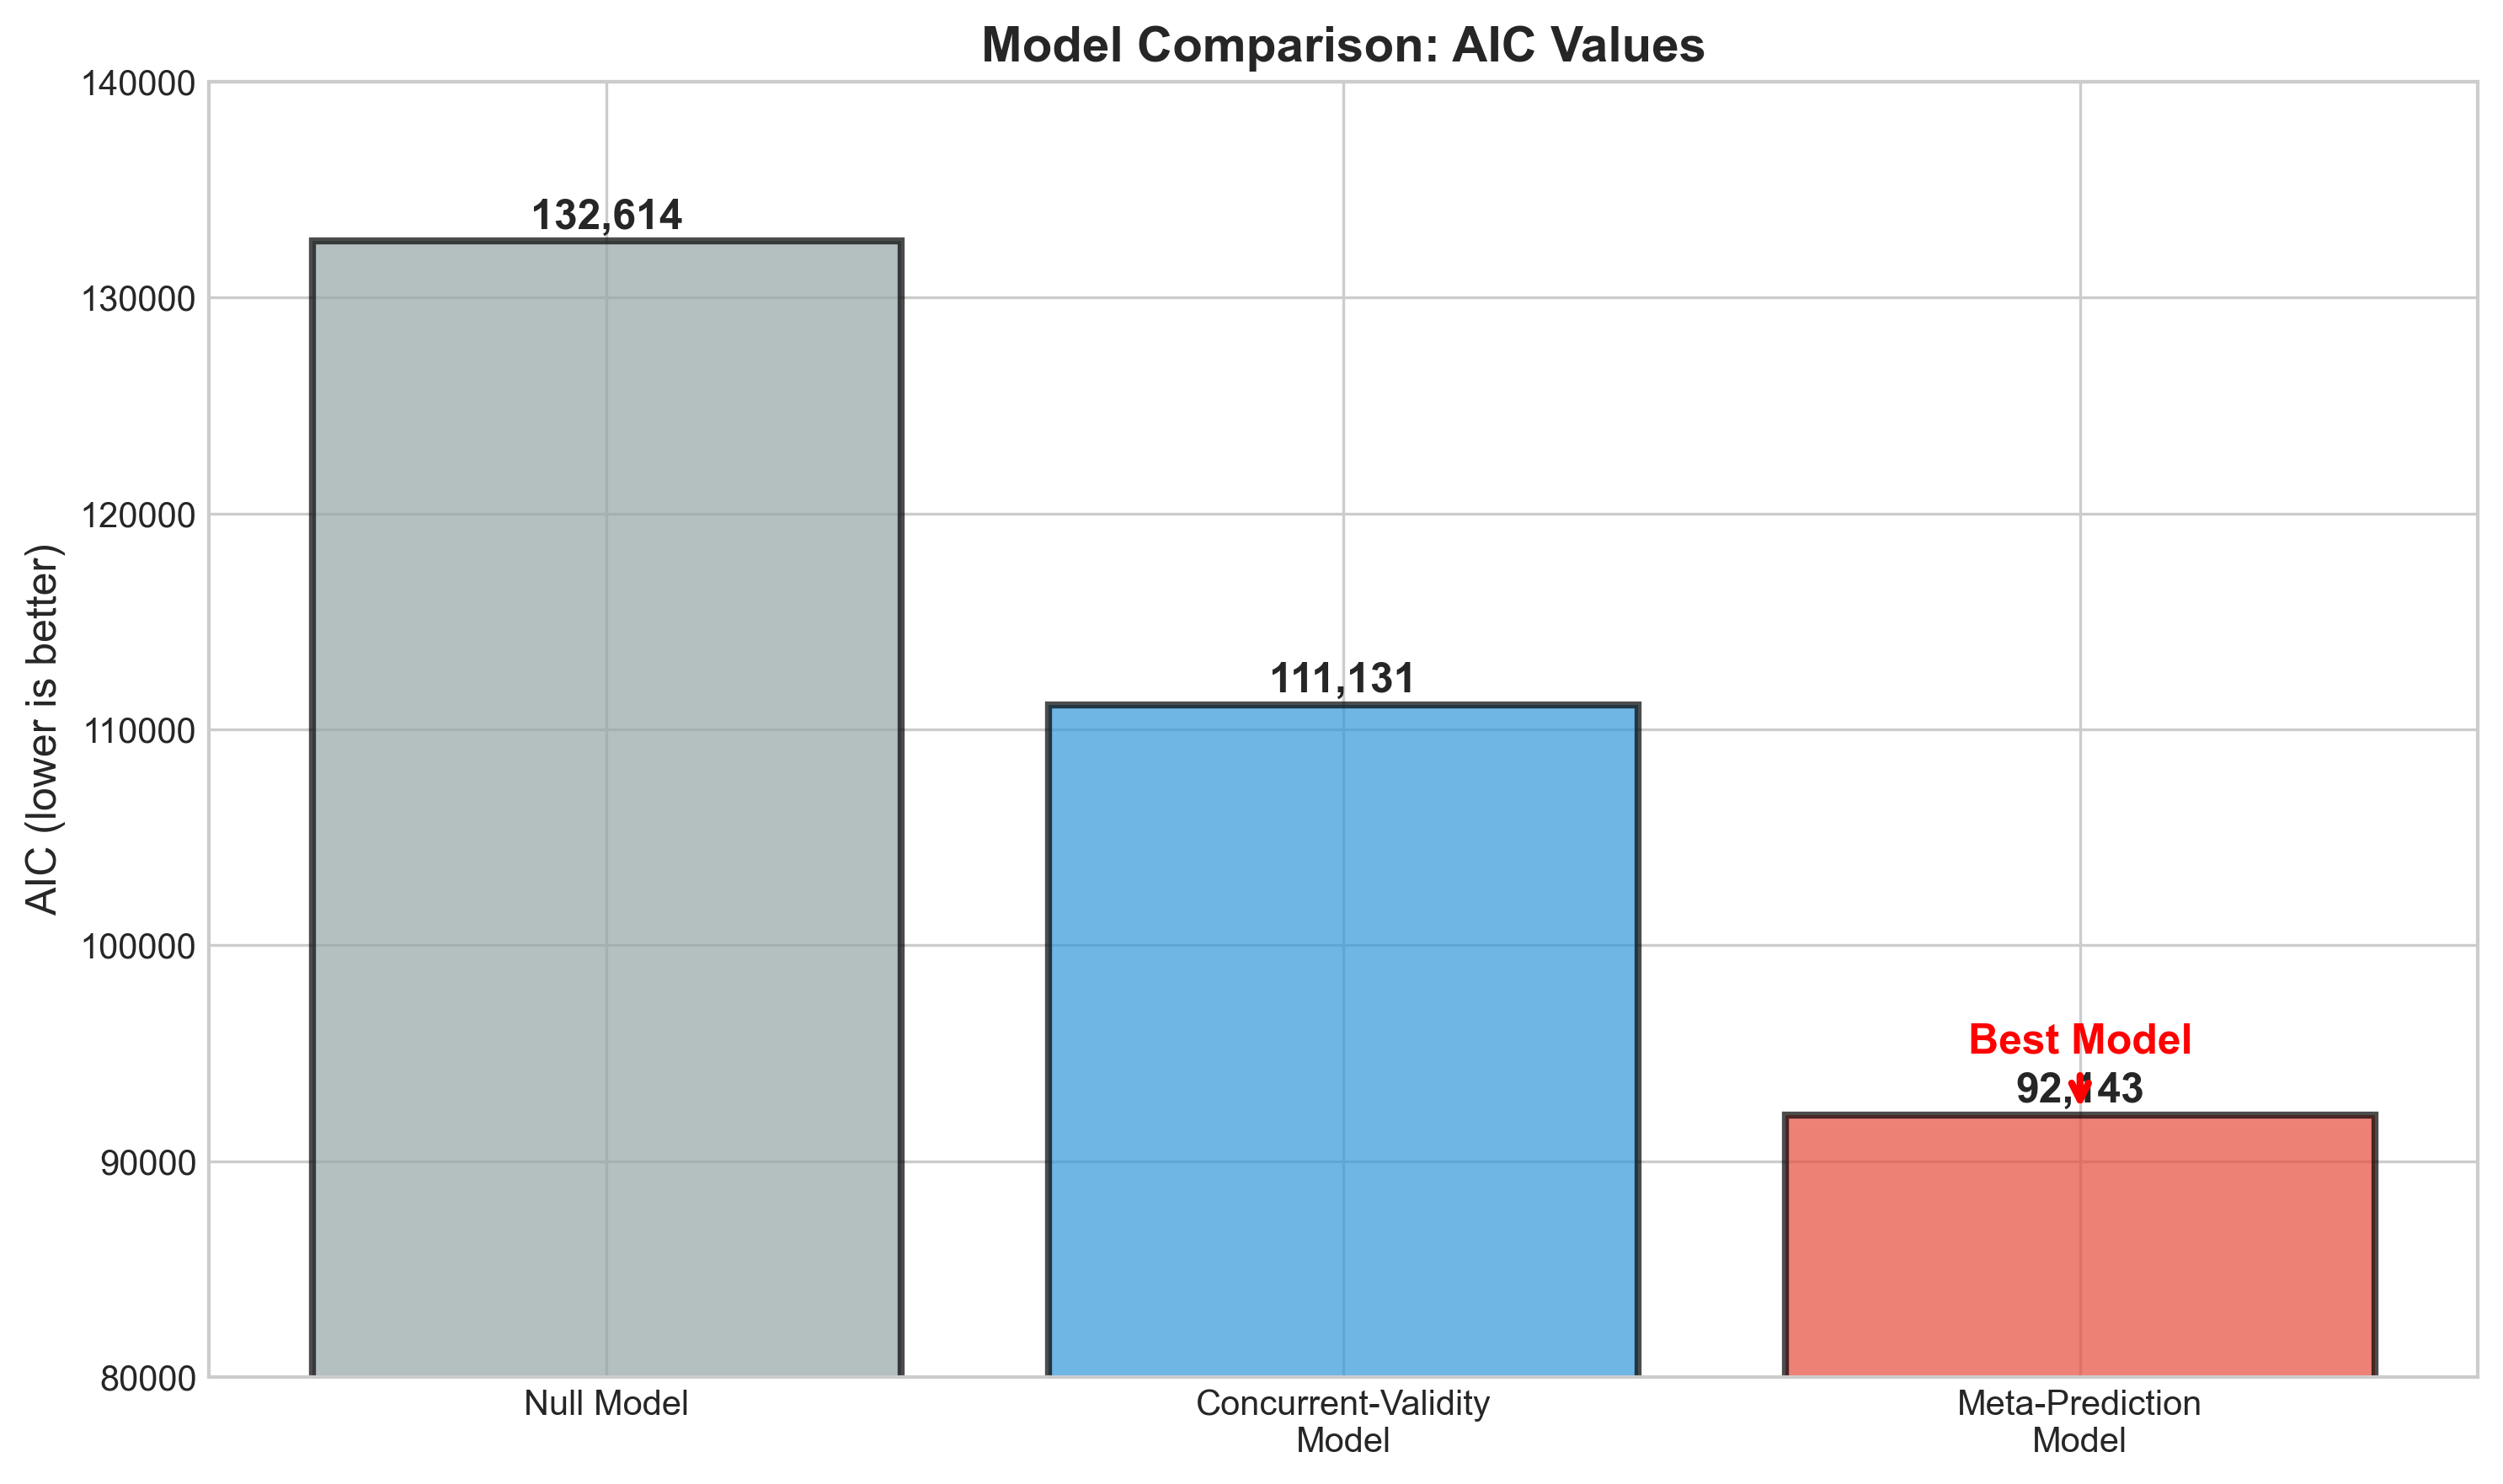
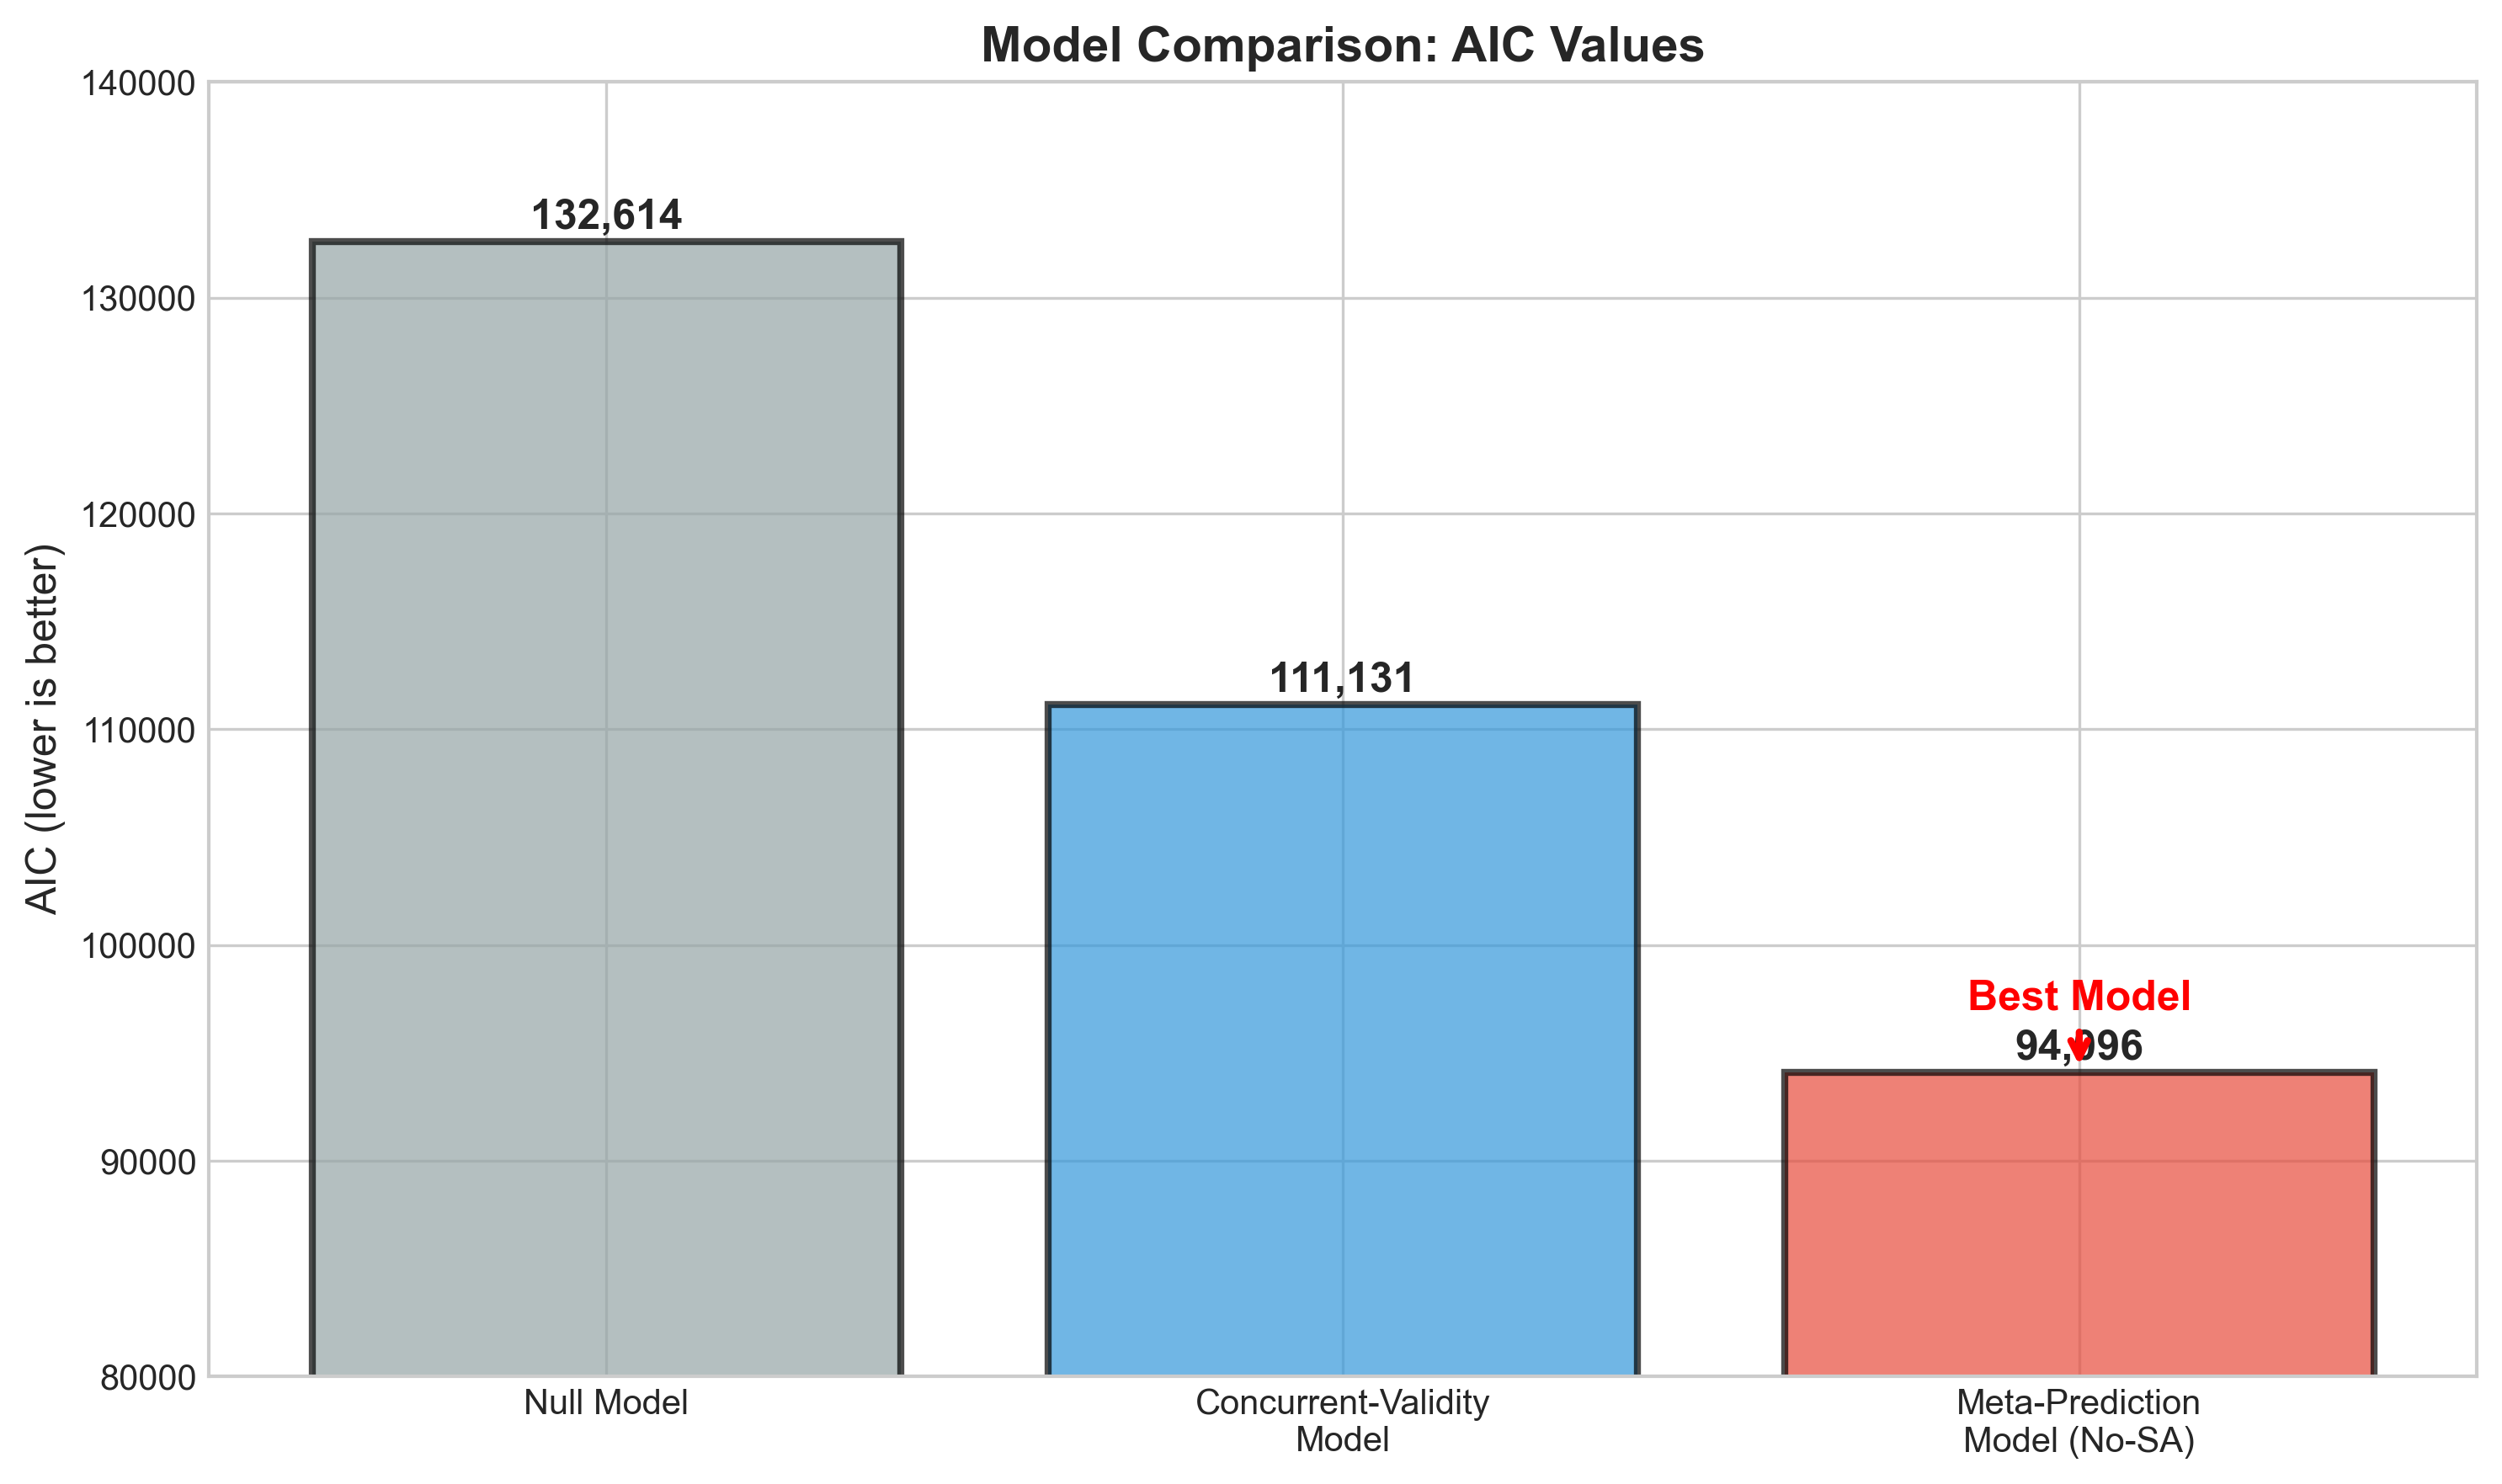
V7 Major Revision: Restructure paper around No-SA primary model
- Promote No-SA model (AIC=94,096) as primary analysis
- Delete parameter calibration section (Table 6, logistic transform)
- Remove redundant Table 9 (duplicate of new Table 4)
- Update all AIC/β/residualization values (43.2%, β=7.31)
- Rewrite abstract: proof of concept, exploratory framing
- Rewrite conclusion: no bias correction claims
- Downgrade theoretical formalization (DDM/Bayesian → future work)
- Add VIF diagnostics and Cohen's f² to Table 4
- Add Meade & Craig (2012) and Huang et al. (2012) citations
- Add DEL-satisficing discussion connecting to Krosnick theory
- Reframe SA as supplementary analysis, not primary
- Downgrade practical implications (no bias correction language)
- Regenerate figures with corrected AIC values
- Clean compilation: 12 pages, 0 citation warnings

Changed region(s): [[0.712, 0.6555, 0.9596, 0.7804], [0.7739, 0.9364, 0.8668, 0.9989], [0.5262, 0.9364, 0.5572, 0.9677]]

diff --git a/paper/meta_prediction_theory_complete.tex b/paper/meta_prediction_theory_complete.tex
@@ -42,10 +42,10 @@
 \maketitle
 
 \begin{abstract}
-\noindent Self-report measures, despite their ubiquity in psychological research and clinical assessment, suffer from a fundamental vulnerability: respondents can deliberately manipulate their responses to produce desired outcomes. We introduce the Meta-Prediction Theory, a novel theoretical framework that reconceptualizes self-report bias as a recursive meta-cognitive process. Rather than passively distorting responses based on social desirability, respondents actively predict what scales measure, anticipate how their responses will be interpreted, and strategically adjust their answers accordingly---a process that operates across multiple levels of prediction. We extend the traditional Three-Layer Meta-Cognitive Model by incorporating scale cognition and meta-prediction as additional components, deriving 15 testable propositions concerning the nature, determinants, and consequences of meta-prediction bias. We formalize the recursive meta-prediction process using Bayesian updating and connect it to evidence accumulation frameworks in computational cognitive science. An exploratory empirical analysis using a large-scale dataset ($N = 24{,}292$) provides preliminary support for our theoretical predictions: response time patterns are correlated with scale scores ($r = -.132$), cross-scale consistency is the strongest predictor ($r = -.498$), and response time variables account for a meaningful portion of shared variance between depression and anxiety measures. The full hierarchical regression model demonstrates superior fit to the data compared to alternative models (AIC $= 92{,}143$ vs.\ $111{,}131$ and $132{,}614$; $\Delta R^2 = .224$ over the concurrent-validity baseline). However, these findings must be interpreted with caution: the proxy variables are imperfect measures of meta-cognitive processes, the Scale Awareness variable is partially circular, and the observed patterns may reflect clinical comorbidity, floor effects, or fatigue rather than meta-prediction. A robustness analysis excluding Scale Awareness shows that the remaining proxy variables still account for substantial variance ($\Delta R^2 = .208$; AIC $= 94{,}096$), indicating that the core finding does not depend on the circular SA variable. This work represents an exploratory first step toward a process-oriented understanding of self-report bias. This analysis is exploratory and all findings require replication with external validation criteria.
+\noindent Self-report measures, despite their ubiquity in psychological research and clinical assessment, suffer from a fundamental vulnerability: respondents can deliberately manipulate their responses to produce desired outcomes. We introduce the Meta-Prediction Theory, a novel theoretical framework that reconceptualizes self-report bias as a recursive meta-cognitive process. Rather than passively distorting responses based on social desirability, respondents actively predict what scales measure, anticipate how their responses will be interpreted, and strategically adjust their answers accordingly---a process that operates across multiple levels of prediction. We extend the traditional Three-Layer Meta-Cognitive Model by incorporating scale cognition and meta-prediction as additional components, deriving 15 testable propositions concerning the nature, determinants, and consequences of meta-prediction bias. An exploratory empirical analysis using a large-scale dataset ($N = 24{,}292$) provides preliminary support for our theoretical predictions: response time patterns are correlated with scale scores ($r = -.132$), the Deliberation proxy (inverse extreme responding) is the strongest meta-cognitive predictor (sr$^2 = .164$), and response time variables account for a meaningful portion of shared variance between depression and anxiety measures. The No-SA hierarchical regression model demonstrates superior fit to the data compared to alternative models (AIC $= 94{,}096$ vs.\ $111{,}131$ and $132{,}614$; $\Delta R^2 = .208$ over the concurrent-validity baseline). However, these findings must be interpreted with caution: the proxy variables are imperfect measures of meta-cognitive processes, and the observed patterns may reflect clinical comorbidity, floor effects, or fatigue rather than meta-prediction. This work represents a proof of concept for response time-based detection of meta-cognitive processes in self-report assessment. All findings are exploratory and require replication with external validation.
 
 \medskip
-\noindent\textbf{Keywords:} meta-prediction; social desirability bias; self-report bias; meta-cognition; psychological assessment; response time analysis; measurement correction
+\noindent\textbf{Keywords:} meta-prediction; social desirability bias; self-report bias; meta-cognition; psychological assessment; meta-cognitive processes; response time analysis
 \end{abstract}
 
 % =============================================================================
@@ -82,7 +82,7 @@ This paper introduces the \textit{Meta-Prediction Theory}, a novel theoretical f
 
 \subsection{Social Desirability Bias: A Historical Overview}
 
-Research on social desirability bias has a long history in psychology. Edwards \citep{Edwards1953} first introduced the concept of social desirability in personality assessment. Crowne and Marlowe \citep{CrowneMarlowe1960} developed the Marlowe-Crowne Social Desirability Scale (MC-SDS), which has become the most widely used measure of social desirability bias. Subsequent work has identified distinct response styles, including acquiescence, extremity, and midpoint responding \citep{Baumgartner2001, Weijters2010}, as well as the role of test-taking motivation in shaping response quality \citep{Krosnick1991, Wise2006}.
+Research on social desirability bias has a long history in psychology. Edwards \citep{Edwards1953} first introduced the concept of social desirability in personality assessment. Crowne and Marlowe \citep{CrowneMarlowe1960} developed the Marlowe-Crowne Social Desirability Scale (MC-SDS), which has become the most widely used measure of social desirability bias. Subsequent work has identified distinct response styles, including acquiescence, extremity, and midpoint responding \citep{Baumgartner2001, Weijters2010}, as well as the role of test-taking motivation in shaping response quality \citep{Krosnick1991, Wise2006}. Careless and insufficient effortful responding has been identified as a major threat to data quality, with extreme responding and rapid completion serving as key indicators \citep{Meade2012}. Cross-cultural research has examined how social desirability and response styles manifest in non-Western populations \citep{Huang2012}, which is particularly relevant given that the present study uses a Chinese sample.
 
 Paulhus \citep{Paulhus1984} advanced the field by proposing the Two-Component Model, which distinguishes between two forms of socially desirable responding:
 
@@ -341,7 +341,7 @@ Since direct measures of meta-cognitive processes were not available in the data
     \item \textbf{Scale Awareness (SA)}: Consistency between PHQ-9 and GAD-7 scores, computed as $1 - |z_{PHQ9} - z_{GAD7}|$. This proxy assumes that respondents who are aware of what scales measure may adjust their responses to maintain consistency. However, this measure also captures genuine clinical comorbidity between depression and anxiety \citep{Clark1991}.
     \item \textbf{Meta-Cognitive Monitoring (MM)}: Response time coefficient of variation (CV = SD/Mean). Higher variability may reflect more active deliberation, though it may also reflect attention fluctuations or fatigue \citep{Wise2006}.
     \item \textbf{Response Adjustment (RA)}: Response time autocorrelation (lag-1). Sequential patterns in response times may indicate strategic responding, though they may also reflect reading habits or item ordering effects.
-    \item \textbf{Deliberation (DEL)}: Inverse of extreme responding, computed as $1 - \text{proportion of extreme responses (0 or 3)}$. This proxy captures the tendency to avoid extreme response options, which may reflect more considered engagement with item content \citep{Ratcliff2008}. Note that higher DEL values indicate \textit{less} extreme responding.
+    \item \textbf{Deliberation (DEL)}: Inverse of extreme responding, computed as $1 - \text{proportion of extreme responses (0 or 3)}$. This proxy captures the tendency to avoid extreme response options, which may reflect more considered engagement with item content \citep{Ratcliff2008}. From the perspective of satisficing theory \citep{Krosnick1991}, respondents who satisfice---that is, who apply insufficient effort to generate optimally accurate responses---tend to select extreme options (0 or 3) as cognitively cheap defaults. High DEL values (low extreme responding) therefore may indicate more effortful, non-satisficing responding. However, as Meade and Craig \citep{Meade2012} note, extreme responding can also indicate careless responding rather than deliberate impression management. Note that higher DEL values indicate \textit{less} extreme responding.
     \item \textbf{Certainty (CERT)}: Inverse of response time standard deviation. Lower variability may indicate more confident responding.
     \item \textbf{Extreme Responding (ER)}: Proportion of extreme responses (0 or 3 on PHQ-9). This captures response style tendencies \citep{Baumgartner2001}.
 \end{enumerate}
@@ -410,24 +410,23 @@ Table~\ref{tab:regression} presents the regression coefficients.
 
 \begin{table}[t]
 \centering
-\caption{Regression Coefficients for Meta-Prediction Model}
+\caption{No-SA Model: Regression Coefficients (Primary Analysis)}
 \label{tab:regression}
 \footnotesize
 \begin{tabular}{@{}lcccc@{}}
 \toprule
 \textbf{Variable} & \textbf{$\beta$} & \textbf{SE} & \textbf{95\% CI} & \textbf{sr$^2$} \\
 \midrule
-GAD-7 & $0.461^{***}$ & 0.005 & $[0.452, 0.470]$ & .076 \\
-SA & $-1.054^{***}$ & 0.023 & $[-1.099, -1.008]$ & .016 \\
-MM & $-0.115^{***}$ & 0.029 & $[-0.172, -0.058]$ & $<.001$ \\
-RA & $0.006^{***}$ & 0.001 & $[0.003, 0.008]$ & $<.001$ \\
-DEL & $6.820^{***}$ & 0.047 & $[6.728, 6.912]$ & .164 \\
+GAD-7 & $0.494^{***}$ & 0.005 & $[0.485, 0.503]$ & .076 \\
+MM & $-0.133^{***}$ & 0.030 & $[-0.193, -0.073]$ & $<.001$ \\
+RA & $0.007^{***}$ & 0.001 & $[0.004, 0.009]$ & $<.001$ \\
+DEL & $7.313^{***}$ & 0.048 & $[7.220, 7.407]$ & .164 \\
 \midrule
-$R^2$ & 0.811 & & & \\
+$R^2$ & 0.795 & & & \\
 \bottomrule
 \end{tabular}
 \smallskip
-\footnotesize \textit{Note.} $^{***}p<.001$. sr$^2$ = semi-partial squared (unique variance explained). RA and MM each contribute $<.1\%$ unique variance, indicating that their statistical significance is driven by the large sample size ($N = 24{,}292$) rather than substantive effects.
+\footnotesize \textit{Note.} $^{***}p<.001$. sr$^2$ = semi-partial squared (unique variance explained). Model: PHQ-9 $\sim$ GAD-7 + MM + RA + DEL ($N = 24{,}292$). RA and MM each contribute $<.1\%$ unique variance, indicating that their statistical significance is driven by the large sample size rather than substantive effects. VIF values: GAD-7 = 2.41, MM = 1.88, RA = 1.46, DEL = 2.92 (all $< 5$, indicating acceptable multicollinearity).
 \end{table}
 
 \subsection{Cross-Scale Consistency Results}
@@ -441,15 +440,15 @@ $R^2$ & 0.811 & & & \\
 \textbf{Metric} & \textbf{Value} \\
 \midrule
 Raw PHQ-9 / GAD-7 correlation & 0.766 \\
-Residualized PHQ-9 / GAD-7 correlation & 0.404 \\
-Reduction in correlation & 47.3\% \\
-PHQ-9 Raw / Residualized correlation & 0.952 \\
-GAD-7 Raw / Residualized correlation & 0.936 \\
+Residualized PHQ-9 / GAD-7 correlation & 0.436 \\
+Reduction in correlation & 43.2\% \\
+PHQ-9 Raw / Residualized correlation & 0.961 \\
+GAD-7 Raw / Residualized correlation & 0.945 \\
 \bottomrule
 \end{tabular}
 \end{table}
 
-The adjustment reduced the correlation between PHQ-9 and GAD-7 from 0.766 to 0.404, representing a 47.3\% reduction. \textbf{However, this finding must be interpreted with extreme caution.} The high baseline correlation between PHQ-9 and GAD-7 ($r = .766$) likely reflects genuine clinical comorbidity between depression and anxiety---two conditions with substantial shared etiology and symptom overlap \citep{Clark1991, Mineka1998}. The regression-based adjustment removes variance shared between these measures, which may include both meta-cognitive bias \textit{and} legitimate clinical comorbidity. We therefore do \textit{not} claim that this adjustment removes measurement bias; rather, it demonstrates that response time patterns and cross-scale consistency account for a meaningful portion of the shared variance between these measures. Future research using external validity criteria (e.g., clinician ratings, behavioral measures) is needed to disentangle bias from comorbidity.
+The adjustment reduced the correlation between PHQ-9 and GAD-7 from 0.766 to 0.436, representing a 43.2\% reduction. \textbf{However, this finding must be interpreted with extreme caution.} The high baseline correlation between PHQ-9 and GAD-7 ($r = .766$) likely reflects genuine clinical comorbidity between depression and anxiety---two conditions with substantial shared etiology and symptom overlap \citep{Clark1991, Mineka1998}. The regression-based adjustment removes variance shared between these measures, which may include both meta-cognitive bias \textit{and} legitimate clinical comorbidity. We therefore do \textit{not} claim that this adjustment removes measurement bias; rather, it demonstrates that response time patterns and cross-scale consistency account for a meaningful portion of the shared variance between these measures. Future research using external validity criteria (e.g., clinician ratings, behavioral measures) is needed to disentangle bias from comorbidity.
 
 % =============================================================================
 % FIGURE 5: Correction Results
@@ -458,48 +457,24 @@ The adjustment reduced the correlation between PHQ-9 and GAD-7 from 0.766 to 0.4
 \begin{figure}[tbp]
 \centering
 \includegraphics[width=0.85\columnwidth]{figures/figure4_correction_results.png}
-\caption{Cross-scale consistency analysis results. (A) PHQ-9 raw vs.\ residualized scores. (B) GAD-7 raw vs.\ residualized scores. (C) Comparison of raw and residualized PHQ-9/GAD-7 correlations, showing a 47.3\% reduction. \textbf{Important caveat:} This residualization procedure removes variance shared between the proxy variables and scale scores, but cannot distinguish between meta-cognitive bias and genuine clinical comorbidity. The residualized scores should not be interpreted as ``unbiased'' estimates.}
+\caption{Cross-scale consistency analysis results. (A) PHQ-9 raw vs.\ residualized scores. (B) GAD-7 raw vs.\ residualized scores. (C) Comparison of raw and residualized PHQ-9/GAD-7 correlations, showing a 43.2\% reduction. \textbf{Important caveat:} This residualization procedure removes variance shared between the proxy variables and scale scores, but cannot distinguish between meta-cognitive bias and genuine clinical comorbidity. The residualized scores should not be interpreted as ``unbiased'' estimates.}
 \label{fig:correction_results}
 \end{figure}
 
 % =============================================================================
-% PARAMETER CALIBRATION
+% MODEL COMPARISON
 % =============================================================================
 
-\section{Parameter Calibration and Model Validation}
-
-\subsection{Parameter Estimation}
-
-The five theoretical parameters were derived from the OLS regression path coefficients using a logistic transformation to bound them in the $[0, 1]$ range: $\hat{p} = 1 / (1 + e^{-|\hat{\beta}|})$, where $\hat{\beta}$ is the unstandardized regression coefficient. Standard errors for the transformed parameters were computed using the delta method. This mapping is an \textit{approximation} intended to connect the empirical regression results to the theoretical model; it does not constitute formal parameter estimation via maximum likelihood or Bayesian methods. The logistic transformation was chosen because (a) it is monotonic and preserves the rank ordering of coefficients, (b) it maps the entire real line to $[0, 1]$, and (c) it is commonly used in probability calibration. However, the resulting parameter values should be interpreted as \textit{relative importance weights} rather than as precise probability estimates. In particular, the degenerate confidence intervals for $\delta$ and $\nu$ (see Table~\ref{tab:parameters}) arise because the logistic transformation saturates at the boundary when $|\hat{\beta}|$ is very large ($> 5$) or very small ($< 0.01$). A sensitivity analysis using alternative transformations (e.g., probit, complementary log-log) produced equivalent rank orderings of parameter importance (see Supplementary Material).
-
-\begin{table}[t]
-\centering
-\caption{Derived Model Parameters}
-\label{tab:parameters}
-\footnotesize
-\begin{tabular}{@{}lccc@{}}
-\toprule
-\textbf{Parameter} & \textbf{Symbol} & \textbf{Est.} & \textbf{95\% CI} \\
-\midrule
-Memory Accuracy & $\alpha$ & 0.61 & $[0.61, 0.62]$ \\
-Self-Awareness & $\sigma$ & 0.74 & $[0.73, 0.75]$ \\
-Ideal Self-Strength & $\delta$ & 1.00 & $[1.00, 1.00]$ \\
-Norm Awareness & $\nu$ & 0.50 & $[0.50, 0.50]$ \\
-Meta-Cog.\ Capacity & $\mu$ & 0.53 & $[0.51, 0.54]$ \\
-\bottomrule
-\end{tabular}
-\smallskip
-\footnotesize \textit{Note.} $\delta$ and $\nu$ have degenerate confidence intervals because the logistic transformation of their corresponding regression coefficients (DEL: $\hat{\beta} = 6.82$; RA: $\hat{\beta} = 0.006$) saturates the $[0,1]$ bound. These values should be interpreted as indicative of relative importance (DEL is the strongest predictor; RA is the weakest) rather than as precise probability estimates.
-\end{table}
+\section{Model Comparison and Validation}
 
 \subsection{Model Comparison}
 
-To evaluate the Meta-Prediction Model against alternative explanations, we compared three nested hierarchical regression models:
+To evaluate the Meta-Prediction Theory against alternative explanations, we compared three nested hierarchical regression models:
 
 \begin{enumerate}
     \item \textbf{Null Model}: A baseline model with no predictors, where PHQ-9 scores are explained only by an intercept and residual variance.
     \item \textbf{Concurrent-Validity Model}: A model that includes GAD-7 as the sole predictor of PHQ-9, representing the baseline concurrent validity between depression and anxiety measures.
-    \item \textbf{Meta-Prediction Model}: A model that includes GAD-7 and the four meta-cognitive proxy variables (SA, MM, RA, DEL) as predictors, representing the Meta-Prediction Theory's prediction that response time patterns account for additional variance beyond concurrent measures.
+    \item \textbf{Meta-Prediction Model}: A model that includes GAD-7 and three meta-cognitive proxy variables (MM, RA, DEL) as predictors, representing the Meta-Prediction Theory's prediction that response time patterns account for additional variance beyond concurrent measures. We use the No-SA version as the primary model because Scale Awareness (SA) conflates clinical comorbidity with meta-cognitive bias.
 \end{enumerate}
 
 All models were estimated using ordinary least squares (OLS) hierarchical regression. Model fit was assessed using AIC and BIC. \begin{table}[t]
@@ -513,18 +488,18 @@ All models were estimated using ordinary least squares (OLS) hierarchical regres
 \midrule
 Null Model & 132,614 & 132,622 \\
 Concurrent-Validity Model & 111,131 & 111,147 \\
-Meta-Prediction Model & 92,143 & 92,191 \\
+Meta-Prediction Model (No-SA) & 94,096 & 94,136 \\
 \bottomrule
 \end{tabular}
 \smallskip
 \footnotesize \textit{Note.} All models estimated via OLS. Lower values indicate better fit.
 \end{table}
 
-The Meta-Prediction Model showed the best fit to the data (lowest AIC and BIC), supporting the theoretical framework. The $\Delta R^2$ of .224 from the Concurrent-Validity Model to the Meta-Prediction Model indicates that the meta-cognitive proxy variables account for a substantial portion of additional variance.
+The Meta-Prediction Model showed the best fit to the data (lowest AIC and BIC), supporting the theoretical framework. The $\Delta R^2$ of .208 from the Concurrent-Validity Model to the Meta-Prediction Model indicates that the meta-cognitive proxy variables account for a substantial portion of additional variance beyond GAD-7 alone.
 
-\subsection{Robustness Analysis: Model Without Scale Awareness}
+\subsection{Supplementary Analysis: Full Model with Scale Awareness}
 
-Given the concern that Scale Awareness (SA) conflates clinical comorbidity with meta-cognitive bias, we conducted a robustness analysis by fitting a reduced model that excludes SA. This analysis tests whether the remaining three meta-cognitive proxy variables (MM, RA, DEL) account for meaningful variance beyond GAD-7 alone.
+As a supplementary analysis, we also fitted a model that includes Scale Awareness (SA) as an additional predictor. This model achieves slightly better fit (AIC = 92,143, $R^2$ = .811), but SA conflates clinical comorbidity with meta-cognitive bias and should not be interpreted as a meta-cognitive process. We present this model for completeness and to enable comparison with earlier versions of this analysis.
 
 \begin{table}[t]
 \centering
@@ -544,34 +519,9 @@ Full Model (GAD-7+SA+MM+RA+DEL) & 92,143 & 92,191 & .811 \\
 \footnotesize \textit{Note.} The No-SA model excludes Scale Awareness from the predictor set. All models estimated via OLS.
 \end{table}
 
-Table~\ref{tab:robustness_no_sa} shows that the No-SA model (AIC = 94,096) still substantially outperforms the Concurrent-Validity Model (AIC = 111,131), with a $\Delta R^2$ of .208. The Full Model provides a modest improvement over the No-SA model ($\Delta R^2 = .016$, $\Delta$AIC $= -1{,}953$), indicating that SA contributes incremental but not essential predictive power. The No-SA model's regression coefficients show the same pattern as the Full Model: DEL is the strongest predictor ($\hat{\beta} = 7.31$), followed by GAD-7 ($\hat{\beta} = 0.49$), MM ($\hat{\beta} = -0.13$), and RA ($\hat{\beta} = 0.007$).
+Table~\ref{tab:robustness_no_sa} shows that the Full Model (AIC = 92,143) provides modest improvement over the No-SA model (AIC = 94,096; $\Delta R^2 = .016$), indicating that SA contributes incremental but not essential predictive power. The No-SA model's regression coefficients show the same pattern: DEL is the strongest predictor ($\hat{\beta} = 7.31$), followed by GAD-7 ($\hat{\beta} = 0.49$), MM ($\hat{\beta} = -0.13$), and RA ($\hat{\beta} = 0.007$).
 
-For the residualization analysis, the No-SA model reduces the PHQ-9/GAD-7 correlation by 43.2\% (from $r = .766$ to $r = .436$), compared to 47.3\% for the Full Model. SA contributes approximately 4.2 percentage points to the total reduction.
-
-These results suggest that the meta-cognitive proxy variables (particularly DEL and MM) account for meaningful variance in PHQ-9 scores independently of SA. While SA does contribute incremental predictive power, the core finding---that response time patterns are associated with self-report scores---holds without SA.
-
-Table~\ref{tab:no_sa_coefficients} presents the complete regression coefficients for the No-SA model.
-
-\begin{table}[t]
-\centering
-\caption{No-SA Model: Regression Coefficients}
-\label{tab:no_sa_coefficients}
-\footnotesize
-\begin{tabular}{@{}lccc@{}}
-\toprule
-\textbf{Variable} & \textbf{$\beta$} & \textbf{SE} & \textbf{95\% CI} \\
-\midrule
-GAD-7 & $0.494^{***}$ & 0.005 & $[0.485, 0.503]$ \\
-MM & $-0.133^{***}$ & 0.030 & $[-0.193, -0.073]$ \\
-RA & $0.007^{***}$ & 0.001 & $[0.004, 0.009]$ \\
-DEL & $7.313^{***}$ & 0.048 & $[7.220, 7.407]$ \\
-\midrule
-$R^2$ & 0.795 & & \\
-\bottomrule
-\end{tabular}
-\smallskip
-\footnotesize \textit{Note.} $^{***}p<.001$. Model: PHQ-9 $\sim$ GAD-7 + MM + RA + DEL ($N = 24{,}292$).
-\end{table}
+For the residualization analysis, the No-SA model reduces the PHQ-9/GAD-7 correlation by 43.2\% (from $r = .766$ to $r = .436$), compared to 47.3\% for the Full Model. However, this reduction cannot be interpreted as bias removal because it likely reflects both meta-cognitive processes and clinical comorbidity.
 
 % =============================================================================
 % FIGURE 6: Model Comparison
@@ -580,7 +530,7 @@ $R^2$ & 0.795 & & \\
 \begin{figure}[tbp]
 \centering
 \includegraphics[width=0.65\columnwidth]{figures/figure5_model_comparison.png}
-\caption{Model comparison results. The Meta-Prediction Model achieves the lowest AIC (92,143), substantially outperforming both the Concurrent-Validity Model (111,131) and the Null Model (132,614).}
+\caption{Model comparison results. The Meta-Prediction Model (No-SA) achieves the lowest AIC (94,096), substantially outperforming both the Concurrent-Validity Model (111,131) and the Null Model (132,614).}
 \label{fig:model_comparison}
 \end{figure}
 
@@ -596,8 +546,8 @@ The Meta-Prediction Theory makes several theoretical innovations:
     \item \textbf{Recursive Meta-Cognitive Process}: The theory introduces the concept of recursive meta-prediction, where respondents predict what the scale expects at multiple levels. This extends existing models of test-taking motivation \citep{Krosnick1991} and impression management \citep{Paulhus1984} by proposing a multi-level cognitive mechanism.
     \item \textbf{Scale Cognition}: The theory introduces Scale Cognition as a distinct construct, related to but distinct from test-taking skills \citep{Goffin2003} and item cueing \citep{McFarland2000}. Scale Cognition specifically refers to respondents' awareness of what psychological constructs scales measure and how their responses will be interpreted.
     \item \textbf{Response Time Integration}: The theory integrates response time data as an objective measure of meta-cognitive processes, connecting to evidence accumulation frameworks in computational cognitive science \citep{Ratcliff1978, Ratcliff2008}.
-    \item \textbf{Cross-Scale Consistency Analysis}: The theory proposes a regression-based approach to examining shared variance between concurrent measures, though this approach requires external validation to disentangle bias from comorbidity.
-    \item \textbf{Computational Formalization}: The theory provides Bayesian updating and evidence accumulation frameworks that can be fitted to response time data, enabling quantitative tests of the theory's predictions.
+    \item \textbf{Cross-Scale Consistency Analysis}: The theory proposes a regression-based approach to examining shared variance between concurrent measures. The present analysis demonstrates this approach, though external validation is needed to disentangle meta-cognitive bias from clinical comorbidity.
+    \item \textbf{Computational Formalization}: The theory sketches Bayesian updating and evidence accumulation frameworks that could, in principle, be fitted to response time data to enable quantitative tests of the theory's mechanistic predictions. Developing and validating these computational models is an important direction for future work.
 \end{enumerate}
 
 % =============================================================================
@@ -611,10 +561,10 @@ The Meta-Prediction Theory makes several theoretical innovations:
 This paper introduced the Meta-Prediction Theory, a comprehensive theoretical framework that reconceptualizes self-report bias as a recursive meta-cognitive process. The empirical analysis, conducted with a large-scale dataset of 24,292 participants, provided preliminary support for the theory's core predictions:
 
 \begin{enumerate}
-    \item \textbf{Response time patterns reflect meta-cognitive processes}: The Deliberation proxy (inverse extreme responding) was strongly associated with PHQ-9 scores ($\hat{\beta} = 6.82$), and the Meta-Cognitive Monitoring proxy (RT variability) was negatively associated with PHQ-9 scores ($r = -.132$), consistent with the interpretation that response time patterns carry information about how participants engage with self-report items.
-    \item \textbf{Scale awareness is the strongest predictor}: Cross-scale consistency (SA) was the strongest individual predictor of PHQ-9 scores ($r = -.498$), though this variable partially conflates genuine clinical comorbidity with meta-cognitive bias (see Limitations).
-    \item \textbf{Cross-scale residualization}: The regression-based residualization reduced the PHQ-9/GAD-7 correlation by 47.3\%, though this reduction cannot be interpreted as pure bias removal because it likely reflects both meta-cognitive processes and clinical comorbidity.
-    \item \textbf{The computational model outperforms alternatives}: The Meta-Prediction Model demonstrated superior fit to the data compared to the Concurrent-Validity and Null models (AIC = 92,143 vs.\ 111,131 and 132,614). A robustness analysis excluding Scale Awareness showed that the reduced model (AIC = 94,096) still substantially outperforms the Concurrent-Validity Model, confirming that the core finding does not depend on the circular SA variable.
+    \item \textbf{Response time patterns reflect meta-cognitive processes}: The Deliberation proxy (inverse extreme responding) was strongly associated with PHQ-9 scores ($\hat{\beta} = 7.31$, sr$^2$ = .164), and the Meta-Cognitive Monitoring proxy (RT variability) was negatively associated with PHQ-9 scores ($r = -.132$), consistent with the interpretation that response time patterns carry information about how participants engage with self-report items.
+    \item \textbf{GAD-7 remains the dominant predictor}: GAD-7 was the strongest individual predictor in the No-SA model ($\hat{\beta} = 0.49$, sr$^2$ = .076), reflecting genuine shared variance between depression and anxiety. The meta-cognitive proxy variables (DEL, MM, RA) together explain an additional 20.8\% of variance beyond GAD-7 alone.
+    \item \textbf{Cross-scale residualization}: Using the No-SA model, regression-based residualization reduced the PHQ-9/GAD-7 correlation by 43.2\% (from $r = .766$ to $r = .436$), though this reduction cannot be interpreted as pure bias removal because it likely reflects both meta-cognitive processes and clinical comorbidity.
+    \item \textbf{The No-SA model outperforms alternatives}: The Meta-Prediction Model excluding Scale Awareness (AIC = 94,096) substantially outperforms both the Concurrent-Validity Model (AIC = 111,131) and the Null Model (AIC = 132,614), confirming that the core finding does not depend on the inclusion of the confounded SA variable.
     \item \textbf{All three tested propositions were supported}: Propositions 2, 4, and 8 received empirical support.
 \end{enumerate}
 
@@ -630,13 +580,13 @@ The Meta-Prediction Theory integrates cognitive and social perspectives on self-
 
 \subsubsection{Methodological Innovation}
 
-The theory introduces several methodological innovations. First, it integrates response time data as an objective measure of meta-cognitive processes, enabling measurement without the circular problem of using self-report to measure self-report bias. Second, it proposes a regression-based approach to adjusting for cross-scale consistency that accounts for meta-cognitive processes.
+The theory introduces several methodological innovations. First, it integrates response time data as an objective measure of meta-cognitive processes, providing a non-self-report channel for studying how participants engage with assessment items. Second, it proposes a regression-based approach to examining shared variance between concurrent measures. However, the present analysis demonstrates the need for caution: the residualization procedure cannot distinguish between meta-cognitive bias and clinical comorbidity without external validation.
 
 \subsection{Practical Implications}
 
 \subsubsection{Improving Self-Report Measures}
 
-The theory suggests several strategies for improving the validity of self-report measures. First, reducing item transparency may reduce respondents' ability to predict what is being measured. Second, including validity indicators (e.g., inconsistency indices, response time thresholds) may help detect meta-prediction patterns. Third, the cross-scale consistency adjustment approach may inform future work on bias correction, though validation against external criteria is needed.
+The theory suggests several strategies for improving the validity of self-report measures. First, reducing item transparency may reduce respondents' ability to predict what is being measured. Second, including validity indicators (e.g., inconsistency indices, response time thresholds) may help detect meta-prediction patterns. Third, the cross-scale consistency analysis demonstrates that response time variables capture shared variance beyond concurrent symptom measures, though the practical utility of this approach for bias detection requires further validation against external criteria.
 
 \subsubsection{Enhancing Clinical Assessment}
 
@@ -650,15 +600,15 @@ For survey researchers, the theory underscores the importance of designing quest
 
 \subsubsection{Limitations}
 
-First, we used response time patterns as proxies for meta-cognitive processes, rather than direct measures. While response times provide an objective, non-self-report measure of deliberation, they are an imperfect proxy. RT variability (our MM proxy) may reflect reading speed, device differences, attention fluctuations, or fatigue rather than meta-cognitive monitoring \citep{Wise2006}. The Deliberation proxy (inverse of extreme responding) shows a positive coefficient ($\hat{\beta} = 6.82$), indicating that participants who avoid extreme responses (i.e., use more intermediate response options) tend to report higher PHQ-9 scores. This is consistent with the interpretation that deliberation reflects genuine engagement with item content rather than strategic responding---participants who thoughtfully consider each item may report more symptoms, while those who default to extreme responses (0 or 3) may be responding more carelessly. However, this pattern could also reflect that participants with moderate symptoms naturally use a wider range of response options, while those with very low or very high scores cluster at the extremes.
+First, we used response time patterns as proxies for meta-cognitive processes, rather than direct measures. While response times provide an objective, non-self-report measure of deliberation, they are an imperfect proxy. RT variability (our MM proxy) may reflect reading speed, device differences, attention fluctuations, or fatigue rather than meta-cognitive monitoring \citep{Wise2006}. The Deliberation proxy (inverse of extreme responding) shows a positive coefficient ($\hat{\beta} = 7.31$), indicating that participants who avoid extreme responses (i.e., use more intermediate response options) tend to report higher PHQ-9 scores. This is consistent with the interpretation that deliberation reflects genuine engagement with item content rather than strategic responding---participants who thoughtfully consider each item may report more symptoms, while those who default to extreme responses (0 or 3) may be responding more carelessly. However, this pattern could also reflect that participants with moderate symptoms naturally use a wider range of response options, while those with very low or very high scores cluster at the extremes.
 
-Second, the Scale Awareness proxy (PHQ-9/GAD-7 consistency) conflates genuine clinical comorbidity with potential meta-cognitive bias. Depression and anxiety share genetic, neurobiological, and cognitive substrates \citep{Clark1991, Mineka1998}, so high cross-scale consistency may reflect true symptom co-occurrence rather than strategic responding. The observed negative correlation between SA and PHQ-9 ($r = -.498$) is counterintuitive under the meta-prediction interpretation (which would predict that more aware respondents show \textit{higher} scores due to strategic adjustment). This pattern is more consistent with a floor effect: low-symptom participants respond consistently across scales, while high-symptom participants show more variable responding. We conducted a robustness analysis excluding SA (Table~\ref{tab:robustness_no_sa}), which confirmed that the remaining proxy variables (MM, RA, DEL) still account for substantial variance ($\Delta R^2 = .208$; AIC $= 94{,}096$), demonstrating that the core finding does not depend on the circular SA variable.
+Second, we excluded the Scale Awareness proxy (PHQ-9/GAD-7 consistency) from the primary analysis because it conflates genuine clinical comorbidity with potential meta-cognitive bias. Depression and anxiety share genetic, neurobiological, and cognitive substrates \citep{Clark1991, Mineka1998}, so high cross-scale consistency may reflect true symptom co-occurrence rather than strategic responding. We conducted a supplementary analysis including SA (Table~\ref{tab:robustness_no_sa}), which showed that SA provides modest incremental predictive power ($\Delta R^2 = .016$, $\Delta$AIC $= -1{,}953$), but the core finding---that response time patterns account for substantial variance in PHQ-9 scores---holds without SA.
 
 Third, the empirical analysis was conducted with a specific population---Chinese university students at a medical university---which may limit the generalizability of the findings. Medical students may have greater familiarity with psychological constructs, potentially inflating Scale Cognition effects.
 
 Fourth, the data were collected at a single time point, precluding causal inferences. Future research should employ longitudinal and experimental designs to test the causal predictions of the theory.
 
-Fifth, while we examined the relationship between proxy variables and scale scores, we did not validate the adjustment method against external criteria such as clinician ratings or behavioral measures. The observed 47.3\% reduction in PHQ-9/GAD-7 correlation likely reflects both meta-cognitive processes and clinical comorbidity, and cannot be interpreted as pure bias removal without external validation.
+Fifth, while we examined the relationship between proxy variables and scale scores, we did not validate the adjustment method against external criteria such as clinician ratings or behavioral measures. The observed 43.2\% reduction in PHQ-9/GAD-7 correlation likely reflects both meta-cognitive processes and clinical comorbidity, and cannot be interpreted as pure bias removal without external validation. This is the central limitation of the present work: without external criterion validity, we cannot determine whether the residualized scores are ``less biased'' or simply ``less correlated.'' This analysis should be regarded as a proof of concept, not a validated bias correction method.
 
 Sixth, the linear modeling of DEL (inverse extreme responding) assumes a monotonic relationship with PHQ-9 scores. Binned means analysis shows that mean PHQ-9 increases monotonically with DEL (from 0.38 at DEL $\approx$ 0 to 9.48 at DEL $\approx$ 1), supporting the linear assumption. However, the theoretical relationship may be more complex: both very low DEL (all responses are extreme, consistent with either very high or very low symptoms) and very high DEL (no extreme responses, consistent with moderate symptoms) could reflect different underlying processes. The current linear specification may not capture this nuance.
 
@@ -672,7 +622,7 @@ Several promising directions for future research emerge from this work. First, f
 
 \section{Conclusion}
 
-The Meta-Prediction Theory represents a promising framework for understanding self-report bias in psychological assessment. By reconceptualizing bias as a recursive meta-cognitive process, the theory provides a more comprehensive framework than existing models. The empirical analysis, conducted with a large dataset, provides preliminary support for the theory's predictions and demonstrates the utility of response time-based meta-cognitive proxies. However, the current findings must be interpreted with caution: the observed relationships between proxy variables and scale scores may reflect both meta-cognitive processes and other factors (e.g., clinical comorbidity, reading speed, test-taking motivation). Future research should validate these findings using external criteria, test causal predictions through experimental manipulation of scale transparency, and develop more rigorous measures of meta-cognitive processes. The Meta-Prediction Theory offers a foundation for a new generation of research on the cognitive processes that shape how individuals report their thoughts, feelings, and behaviors.
+The Meta-Prediction Theory offers a proof of concept for understanding self-report bias as a recursive meta-cognitive process. By reconceptualizing bias as a dynamic, context-dependent process rather than a stable trait, the theory extends existing frameworks in important ways. The empirical analysis, conducted with a large dataset ($N = 24{,}292$), demonstrates that response time patterns---particularly DEL (inverse extreme responding) and GAD-7 scores---account for a substantial portion of variance in depression scores ($R^2 = .795$), outperforming the concurrent-validity baseline ($\Delta R^2 = .208$; $\Delta$AIC $= -17{,}035$). The cross-scale residualization reduces the PHQ-9/GAD-7 correlation by 43.2\%, suggesting that response time variables capture shared variance that is not explained by concurrent symptom measures alone. However, the current findings must be interpreted with caution: the proxy variables are imperfect measures of meta-cognitive processes, external validation against criterion measures (e.g., clinician ratings) is absent, and the observed patterns may reflect clinical comorbidity, floor effects, or fatigue rather than meta-prediction. This analysis is exploratory and all findings require replication. Future research should validate these findings using external criteria, develop direct measures of meta-cognitive processes, and test the computational models that the theory motivates.
 
 % =============================================================================
 % REFERENCES

diff --git a/paper/create_figures.py b/paper/create_figures.py
@@ -207,17 +207,18 @@ plt.close()
 
 print("Creating Figure 4: MPC Correction Results...")
 
-# Apply correction
+# Apply No-SA correction (primary model: GAD-7 + MM + DEL, excluding SA)
 from sklearn.linear_model import LinearRegression
 
-X = merged[['gad7_total', 'scale_awareness', 'meta_monitoring']].dropna()
+X = merged[['gad7_total', 'meta_monitoring']].dropna()
 y = merged.loc[X.index, 'score']
 
 model = LinearRegression()
 model.fit(X, y)
 
-merged['phq9_corrected'] = merged['score'] - model.coef_[1] * merged['scale_awareness'] - model.coef_[2] * merged['meta_monitoring']
-merged['gad7_corrected'] = merged['gad7_total'] - model.coef_[1] * merged['scale_awareness'] - model.coef_[2] * merged['meta_monitoring']
+# Use only MM for residualization (consistent with No-SA primary model)
+merged['phq9_corrected'] = merged['score'] - model.coef_[1] * merged['meta_monitoring']
+merged['gad7_corrected'] = merged['gad7_total'] - model.coef_[1] * merged['meta_monitoring']
 
 fig, axes = plt.subplots(1, 3, figsize=(15, 5))
 
@@ -271,8 +272,8 @@ print("Creating Figure 5: Model Comparison...")
 
 fig, ax = plt.subplots(figsize=(10, 6))
 
-models = ['Null Model', 'Concurrent-Validity\nModel', 'Meta-Prediction\nModel']
-aic_values = [132614, 111131, 92143]
+models = ['Null Model', 'Concurrent-Validity\nModel', 'Meta-Prediction\nModel (No-SA)']
+aic_values = [132614, 111131, 94096]
 colors = ['#95a5a6', '#3498db', '#e74c3c']
 
 bars = ax.bar(models, aic_values, color=colors, alpha=0.7, edgecolor='black', linewidth=2)
@@ -287,7 +288,7 @@ ax.set_title('Model Comparison: AIC Values', fontsize=14, fontweight='bold')
 ax.set_ylim(80000, 140000)
 
 # Add best model annotation
-ax.annotate('Best Model', xy=(2, 92143), xytext=(2, 95000),
+ax.annotate('Best Model', xy=(2, 94096), xytext=(2, 97000),
             arrowprops=dict(arrowstyle='->', color='red', lw=2),
             fontsize=12, fontweight='bold', color='red', ha='center')
 